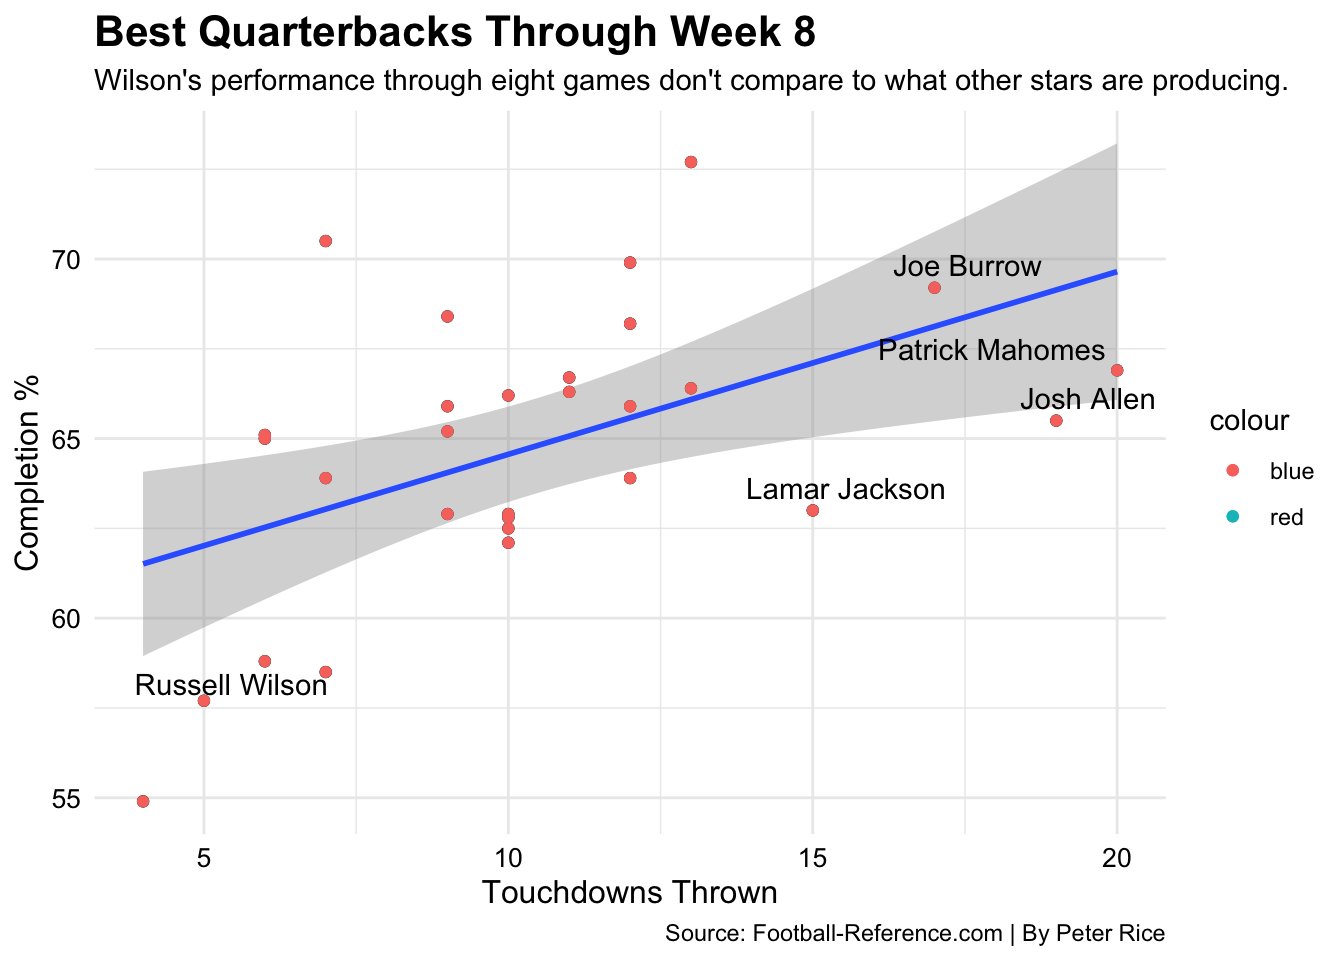
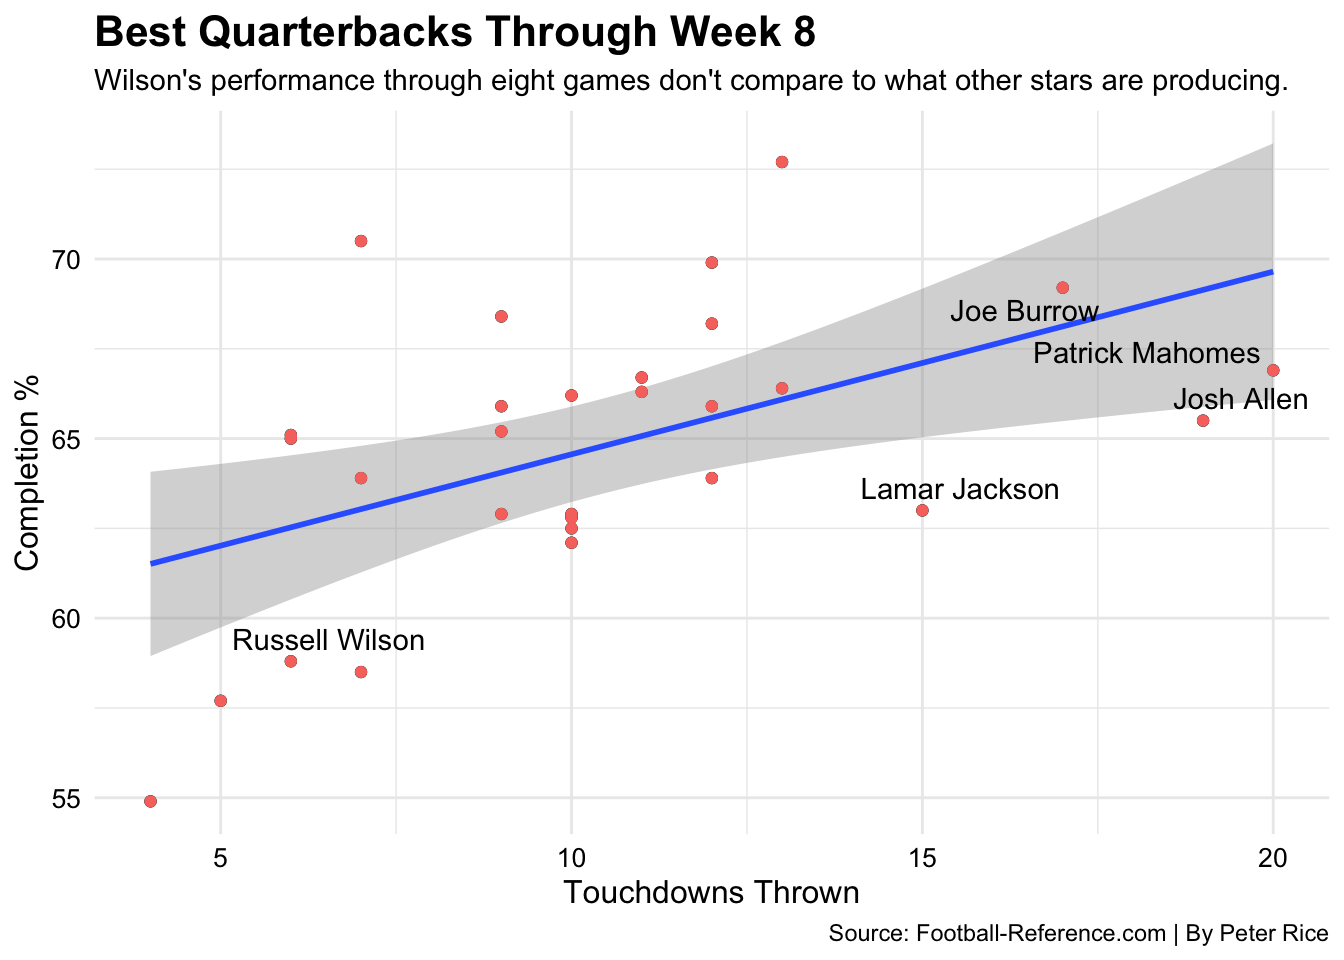
t
t

diff --git a/posts/russell-wilson-isnt-living-up-to-hype/index.html b/posts/russell-wilson-isnt-living-up-to-hype/index.html
@@ -233,12 +233,13 @@ code span.wa { color: #60a0b0; font-weight: bold; font-style: italic; } /* Warni
 <span id="cb1-20"><a href="#cb1-20" aria-hidden="true" tabindex="-1"></a><span class="fu">labs</span>(<span class="at">x =</span> <span class="st">"Touchdowns Thrown"</span>, <span class="at">y =</span> <span class="st">"Completion %"</span>,</span>
 <span id="cb1-21"><a href="#cb1-21" aria-hidden="true" tabindex="-1"></a><span class="at">title =</span> <span class="st">"Best Quarterbacks Through Week 8"</span>,</span>
 <span id="cb1-22"><a href="#cb1-22" aria-hidden="true" tabindex="-1"></a><span class="at">subtitle =</span> <span class="st">"Wilson's performance through eight games don't compare to what other stars are producing."</span>,</span>
-<span id="cb1-23"><a href="#cb1-23" aria-hidden="true" tabindex="-1"></a><span class="at">caption =</span> <span class="st">"Source: Football-Reference.com | By Peter Rice"</span>, <span class="at">legend.position =</span> <span class="st">"none"</span>) <span class="sc">+</span></span>
+<span id="cb1-23"><a href="#cb1-23" aria-hidden="true" tabindex="-1"></a><span class="at">caption =</span> <span class="st">"Source: Football-Reference.com | By Peter Rice"</span>) <span class="sc">+</span></span>
 <span id="cb1-24"><a href="#cb1-24" aria-hidden="true" tabindex="-1"></a><span class="fu">theme_minimal</span>() <span class="sc">+</span> <span class="fu">theme</span>(</span>
 <span id="cb1-25"><a href="#cb1-25" aria-hidden="true" tabindex="-1"></a><span class="at">plot.title =</span> <span class="fu">element_text</span>(<span class="at">size =</span> <span class="dv">16</span>, <span class="at">face =</span> <span class="st">"bold"</span>),</span>
 <span id="cb1-26"><a href="#cb1-26" aria-hidden="true" tabindex="-1"></a><span class="at">axis.title =</span> <span class="fu">element_text</span>(<span class="at">size =</span> <span class="dv">12</span>),</span>
-<span id="cb1-27"><a href="#cb1-27" aria-hidden="true" tabindex="-1"></a><span class="at">axis.text =</span> <span class="fu">element_text</span>(<span class="at">size =</span> <span class="dv">10</span>, <span class="at">color =</span> <span class="st">"black"</span>) </span>
-<span id="cb1-28"><a href="#cb1-28" aria-hidden="true" tabindex="-1"></a>) </span></code><button title="Copy to Clipboard" class="code-copy-button"><i class="bi"></i></button></pre></div>
+<span id="cb1-27"><a href="#cb1-27" aria-hidden="true" tabindex="-1"></a><span class="at">axis.text =</span> <span class="fu">element_text</span>(<span class="at">size =</span> <span class="dv">10</span>, <span class="at">color =</span> <span class="st">"black"</span>), </span>
+<span id="cb1-28"><a href="#cb1-28" aria-hidden="true" tabindex="-1"></a><span class="at">legend.position =</span> <span class="st">"none"</span></span>
+<span id="cb1-29"><a href="#cb1-29" aria-hidden="true" tabindex="-1"></a>) </span></code><button title="Copy to Clipboard" class="code-copy-button"><i class="bi"></i></button></pre></div>
 </details>
 <div class="cell-output-display">
 <p><img src="index_files/figure-html/unnamed-chunk-1-1.png" class="img-fluid" width="672"></p>
@@ -326,12 +327,12 @@ code span.wa { color: #60a0b0; font-weight: bold; font-style: italic; } /* Warni
 </details>
 <div class="cell-output-display">
 
-<div id="ijgvxseula" style="overflow-x:auto;overflow-y:auto;width:auto;height:auto;">
+<div id="emckcizwfl" style="overflow-x:auto;overflow-y:auto;width:auto;height:auto;">
 <style>html {
   font-family: -apple-system, BlinkMacSystemFont, 'Segoe UI', Roboto, Oxygen, Ubuntu, Cantarell, 'Helvetica Neue', 'Fira Sans', 'Droid Sans', Arial, sans-serif;
 }
 
-:where(#ijgvxseula) .gt_table {
+:where(#emckcizwfl) .gt_table {
   display: table;
   border-collapse: collapse;
   margin-left: auto;
@@ -356,7 +357,7 @@ code span.wa { color: #60a0b0; font-weight: bold; font-style: italic; } /* Warni
   border-left-color: #D3D3D3;
 }
 
-:where(#ijgvxseula) .gt_heading {
+:where(#emckcizwfl) .gt_heading {
   background-color: #FFFFFF;
   text-align: center;
   border-bottom-color: #FFFFFF;
@@ -368,7 +369,7 @@ code span.wa { color: #60a0b0; font-weight: bold; font-style: italic; } /* Warni
   border-right-color: #D3D3D3;
 }
 
-:where(#ijgvxseula) .gt_title {
+:where(#emckcizwfl) .gt_title {
   color: #333333;
   font-size: 125%;
   font-weight: initial;
@@ -380,7 +381,7 @@ code span.wa { color: #60a0b0; font-weight: bold; font-style: italic; } /* Warni
   border-bottom-width: 0;
 }
 
-:where(#ijgvxseula) .gt_subtitle {
+:where(#emckcizwfl) .gt_subtitle {
   color: #333333;
   font-size: 85%;
   font-weight: initial;
@@ -392,13 +393,13 @@ code span.wa { color: #60a0b0; font-weight: bold; font-style: italic; } /* Warni
   border-top-width: 0;
 }
 
-:where(#ijgvxseula) .gt_bottom_border {
+:where(#emckcizwfl) .gt_bottom_border {
   border-bottom-style: none;
   border-bottom-width: 2px;
   border-bottom-color: #D3D3D3;
 }
 
-:where(#ijgvxseula) .gt_col_headings {
+:where(#emckcizwfl) .gt_col_headings {
   border-top-style: none;
   border-top-width: 2px;
   border-top-color: #D3D3D3;
@@ -413,7 +414,7 @@ code span.wa { color: #60a0b0; font-weight: bold; font-style: italic; } /* Warni
   border-right-color: #D3D3D3;
 }
 
-:where(#ijgvxseula) .gt_col_heading {
+:where(#emckcizwfl) .gt_col_heading {
   color: #333333;
   background-color: #FFFFFF;
   font-size: 100%;
@@ -433,7 +434,7 @@ code span.wa { color: #60a0b0; font-weight: bold; font-style: italic; } /* Warni
   overflow-x: hidden;
 }
 
-:where(#ijgvxseula) .gt_column_spanner_outer {
+:where(#emckcizwfl) .gt_column_spanner_outer {
   color: #333333;
   background-color: #FFFFFF;
   font-size: 100%;
@@ -445,15 +446,15 @@ code span.wa { color: #60a0b0; font-weight: bold; font-style: italic; } /* Warni
   padding-right: 4px;
 }
 
-:where(#ijgvxseula) .gt_column_spanner_outer:first-child {
+:where(#emckcizwfl) .gt_column_spanner_outer:first-child {
   padding-left: 0;
 }
 
-:where(#ijgvxseula) .gt_column_spanner_outer:last-child {
+:where(#emckcizwfl) .gt_column_spanner_outer:last-child {
   padding-right: 0;
 }
 
-:where(#ijgvxseula) .gt_column_spanner {
+:where(#emckcizwfl) .gt_column_spanner {
   border-bottom-style: none;
   border-bottom-width: 2px;
   border-bottom-color: #D3D3D3;
@@ -465,7 +466,7 @@ code span.wa { color: #60a0b0; font-weight: bold; font-style: italic; } /* Warni
   width: 100%;
 }
 
-:where(#ijgvxseula) .gt_group_heading {
+:where(#emckcizwfl) .gt_group_heading {
   padding-top: 8px;
   padding-bottom: 8px;
   padding-left: 5px;
@@ -490,7 +491,7 @@ code span.wa { color: #60a0b0; font-weight: bold; font-style: italic; } /* Warni
   vertical-align: middle;
 }
 
-:where(#ijgvxseula) .gt_empty_group_heading {
+:where(#emckcizwfl) .gt_empty_group_heading {
   padding: 0.5px;
   color: #333333;
   background-color: #FFFFFF;
@@ -505,15 +506,15 @@ code span.wa { color: #60a0b0; font-weight: bold; font-style: italic; } /* Warni
   vertical-align: middle;
 }
 
-:where(#ijgvxseula) .gt_from_md > :first-child {
+:where(#emckcizwfl) .gt_from_md > :first-child {
   margin-top: 0;
 }
 
-:where(#ijgvxseula) .gt_from_md > :last-child {
+:where(#emckcizwfl) .gt_from_md > :last-child {
   margin-bottom: 0;
 }
 
-:where(#ijgvxseula) .gt_row {
+:where(#emckcizwfl) .gt_row {
   padding-top: 8px;
   padding-bottom: 8px;
   padding-left: 5px;
@@ -532,7 +533,7 @@ code span.wa { color: #60a0b0; font-weight: bold; font-style: italic; } /* Warni
   overflow-x: hidden;
 }
 
-:where(#ijgvxseula) .gt_stub {
+:where(#emckcizwfl) .gt_stub {
   color: #333333;
   background-color: #FFFFFF;
   font-size: 100%;
@@ -545,7 +546,7 @@ code span.wa { color: #60a0b0; font-weight: bold; font-style: italic; } /* Warni
   padding-right: 5px;
 }
 
-:where(#ijgvxseula) .gt_stub_row_group {
+:where(#emckcizwfl) .gt_stub_row_group {
   color: #333333;
   background-color: #FFFFFF;
   font-size: 100%;
@@ -559,11 +560,11 @@ code span.wa { color: #60a0b0; font-weight: bold; font-style: italic; } /* Warni
   vertical-align: top;
 }
 
-:where(#ijgvxseula) .gt_row_group_first td {
+:where(#emckcizwfl) .gt_row_group_first td {
   border-top-width: 2px;
 }
 
-:where(#ijgvxseula) .gt_summary_row {
+:where(#emckcizwfl) .gt_summary_row {
   color: #333333;
   background-color: #FFFFFF;
   text-transform: inherit;
@@ -573,16 +574,16 @@ code span.wa { color: #60a0b0; font-weight: bold; font-style: italic; } /* Warni
   padding-right: 5px;
 }
 
-:where(#ijgvxseula) .gt_first_summary_row {
+:where(#emckcizwfl) .gt_first_summary_row {
   border-top-style: none;
   border-top-color: #D3D3D3;
 }
 
-:where(#ijgvxseula) .gt_first_summary_row.thick {
+:where(#emckcizwfl) .gt_first_summary_row.thick {
   border-top-width: 2px;
 }
 
-:where(#ijgvxseula) .gt_last_summary_row {
+:where(#emckcizwfl) .gt_last_summary_row {
   padding-top: 8px;
   padding-bottom: 8px;
   padding-left: 5px;
@@ -592,7 +593,7 @@ code span.wa { color: #60a0b0; font-weight: bold; font-style: italic; } /* Warni
   border-bottom-color: #D3D3D3;
 }
 
-:where(#ijgvxseula) .gt_grand_summary_row {
+:where(#emckcizwfl) .gt_grand_summary_row {
   color: #333333;
   background-color: #FFFFFF;
   text-transform: inherit;
@@ -602,7 +603,7 @@ code span.wa { color: #60a0b0; font-weight: bold; font-style: italic; } /* Warni
   padding-right: 5px;
 }
 
-:where(#ijgvxseula) .gt_first_grand_summary_row {
+:where(#emckcizwfl) .gt_first_grand_summary_row {
   padding-top: 8px;
   padding-bottom: 8px;
   padding-left: 5px;
@@ -612,11 +613,11 @@ code span.wa { color: #60a0b0; font-weight: bold; font-style: italic; } /* Warni
   border-top-color: #D3D3D3;
 }
 
-:where(#ijgvxseula) .gt_striped {
+:where(#emckcizwfl) .gt_striped {
   background-color: rgba(128, 128, 128, 0.05);
 }
 
-:where(#ijgvxseula) .gt_table_body {
+:where(#emckcizwfl) .gt_table_body {
   border-top-style: none;
   border-top-width: 2px;
   border-top-color: #D3D3D3;
@@ -625,7 +626,7 @@ code span.wa { color: #60a0b0; font-weight: bold; font-style: italic; } /* Warni
   border-bottom-color: #D3D3D3;
 }
 
-:where(#ijgvxseula) .gt_footnotes {
+:where(#emckcizwfl) .gt_footnotes {
   color: #333333;
   background-color: #FFFFFF;
   border-bottom-style: none;
@@ -639,7 +640,7 @@ code span.wa { color: #60a0b0; font-weight: bold; font-style: italic; } /* Warni
   border-right-color: #D3D3D3;
 }
 
-:where(#ijgvxseula) .gt_footnote {
+:where(#emckcizwfl) .gt_footnote {
   margin: 0px;
   font-size: 90%;
   padding-left: 4px;
@@ -648,7 +649,7 @@ code span.wa { color: #60a0b0; font-weight: bold; font-style: italic; } /* Warni
   padding-right: 5px;
 }
 
-:where(#ijgvxseula) .gt_sourcenotes {
+:where(#emckcizwfl) .gt_sourcenotes {
   color: #333333;
   background-color: #FFFFFF;
   border-bottom-style: none;
@@ -662,7 +663,7 @@ code span.wa { color: #60a0b0; font-weight: bold; font-style: italic; } /* Warni
   border-right-color: #D3D3D3;
 }
 
-:where(#ijgvxseula) .gt_sourcenote {
+:where(#emckcizwfl) .gt_sourcenote {
   font-size: 90%;
   padding-top: 4px;
   padding-bottom: 4px;
@@ -670,64 +671,64 @@ code span.wa { color: #60a0b0; font-weight: bold; font-style: italic; } /* Warni
   padding-right: 5px;
 }
 
-:where(#ijgvxseula) .gt_left {
+:where(#emckcizwfl) .gt_left {
   text-align: left;
 }
 
-:where(#ijgvxseula) .gt_center {
+:where(#emckcizwfl) .gt_center {
   text-align: center;
 }
 
-:where(#ijgvxseula) .gt_right {
+:where(#emckcizwfl) .gt_right {
   text-align: right;
   font-variant-numeric: tabular-nums;
 }
 
-:where(#ijgvxseula) .gt_font_normal {
+:where(#emckcizwfl) .gt_font_normal {
   font-weight: normal;
 }
 
-:where(#ijgvxseula) .gt_font_bold {
+:where(#emckcizwfl) .gt_font_bold {
   font-weight: bold;
 }
 
-:where(#ijgvxseula) .gt_font_italic {
+:where(#emckcizwfl) .gt_font_italic {
   font-style: italic;
 }
 
-:where(#ijgvxseula) .gt_super {
+:where(#emckcizwfl) .gt_super {
   font-size: 65%;
 }
 
-:where(#ijgvxseula) .gt_footnote_marks {
+:where(#emckcizwfl) .gt_footnote_marks {
   font-style: italic;
   font-weight: normal;
   font-size: 75%;
   vertical-align: 0.4em;
 }
 
-:where(#ijgvxseula) .gt_asterisk {
+:where(#emckcizwfl) .gt_asterisk {
   font-size: 100%;
   vertical-align: 0;
 }
 
-:where(#ijgvxseula) .gt_indent_1 {
+:where(#emckcizwfl) .gt_indent_1 {
   text-indent: 5px;
 }
 
-:where(#ijgvxseula) .gt_indent_2 {
+:where(#emckcizwfl) .gt_indent_2 {
   text-indent: 10px;
 }
 
-:where(#ijgvxseula) .gt_indent_3 {
+:where(#emckcizwfl) .gt_indent_3 {
   text-indent: 15px;
 }
 
-:where(#ijgvxseula) .gt_indent_4 {
+:where(#emckcizwfl) .gt_indent_4 {
   text-indent: 20px;
 }
 
-:where(#ijgvxseula) .gt_indent_5 {
+:where(#emckcizwfl) .gt_indent_5 {
   text-indent: 25px;
 }
 </style>

diff --git a/index.html b/index.html
@@ -164,7 +164,7 @@ ul.task-list li input[type="checkbox"] {
 
 <div class="quarto-listing quarto-listing-container-default" id="listing-listing">
 <div class="list quarto-listing-default">
-<div class="quarto-post image-right" data-index="0" data-categories="sports,data,football" data-listing-date-sort="1667538000000" data-listing-file-modified-sort="1667761205493" data-listing-reading-time-sort="4.205">
+<div class="quarto-post image-right" data-index="0" data-categories="sports,data,football" data-listing-date-sort="1667538000000" data-listing-file-modified-sort="1667768525514" data-listing-reading-time-sort="4.2">
 <div class="thumbnail">
 <p><a href="./posts/russell-wilson-isnt-living-up-to-hype/index.html"> <img src="./posts/russell-wilson-isnt-living-up-to-hype/image.png" class="thumnail-image"> </a></p>
 </div>
